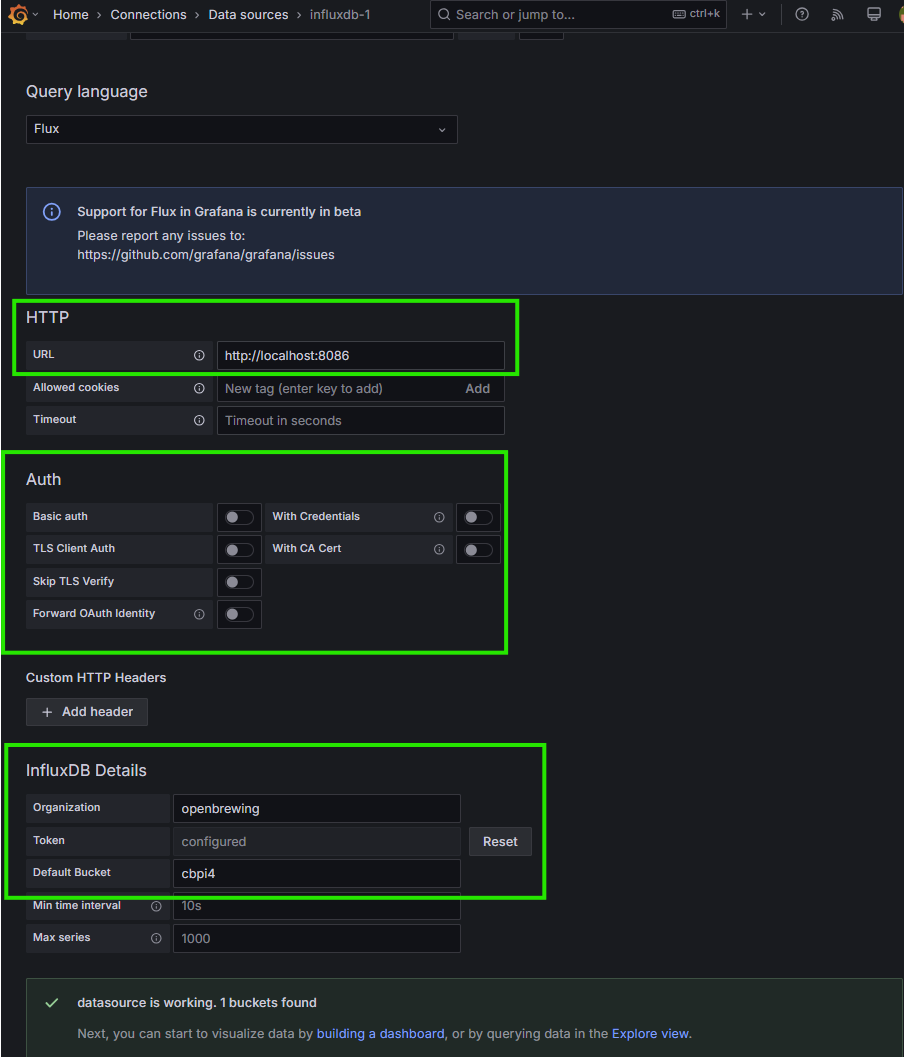
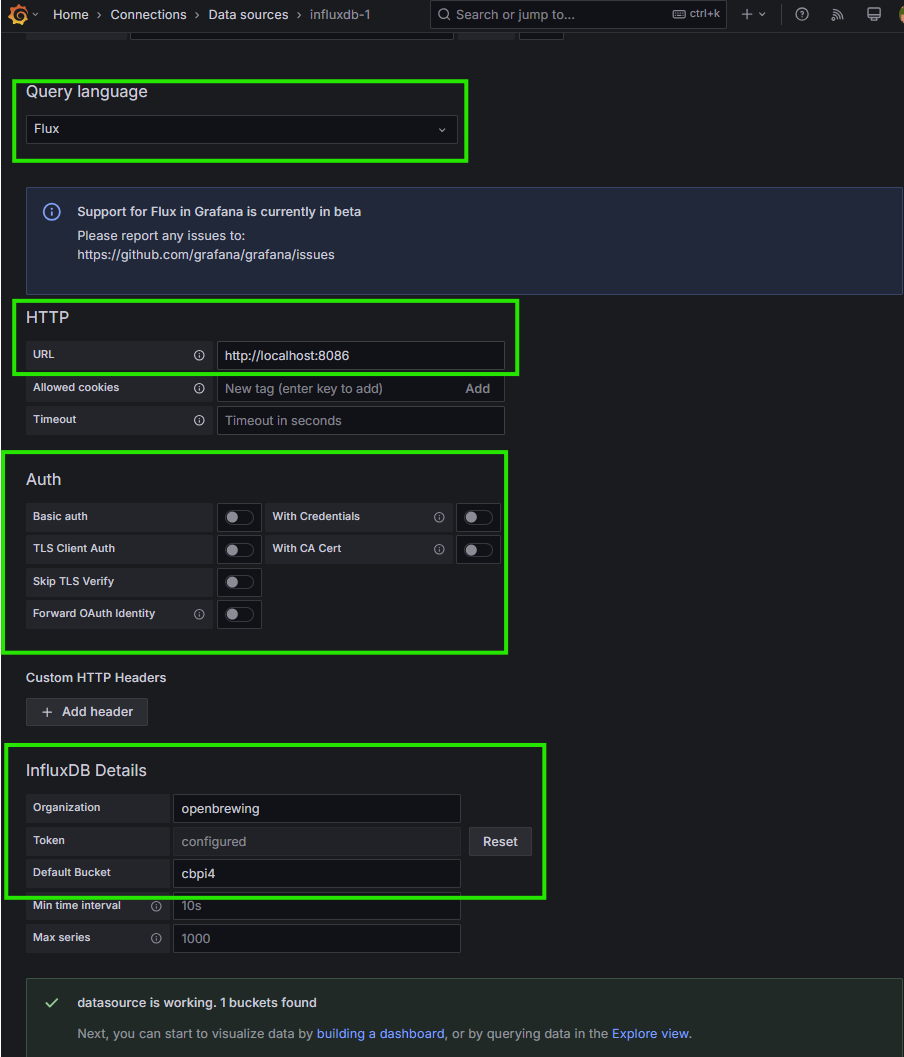
update on influxdb

Changed region(s): [[0.0, 0.0624, 0.5265, 0.1561]]

diff --git a/master/examples/example-influxdb2.md b/master/examples/example-influxdb2.md
@@ -1,5 +1,7 @@
 # Example for InfluxDB V2 / Grafana installation and configuration on th pi
 
+## Installation of the InfluxDB v2 on the Pi
+
 The example installation for influxdb2 is based on the instructions you can find on the [influxdb webpage](https://docs.influxdata.com/influxdb/v2/install/#install-influxdb-as-a-service-with-systemd)
 
 Follow the instructions for Ubuntu / Debian. First you need to add the source information for the installation packages to your system. Run the following commands from your home directory where you have write access.
@@ -39,6 +41,8 @@ http://IPADDRESS_OF_PI:8086
 You should see this initial screen:
 
 ![InfluxDB2 initial screen](../../.gitbook/assets/cbpi4_influxdb_setup.png)
+
+## Configuration of InfluxDB and CraftbeerPi4
 
 Click on the get started button amd enter a name for the admin and a password. Enter an organization name and a name for an initial bucket
 
@@ -90,16 +94,112 @@ Then to the influxdb interface and open the data explorer. Select under `From`yo
 
 
 
-Grafana:
+## Installation of Grafana on the Pi:
 
-Install grafana server section from here:
-https://grafana.com/tutorials/install-grafana-on-raspberry-pi/
+Please follow the installation instructions for Grafana an scroll down to `Install Grafana` on this [page](https://grafana.com/tutorials/install-grafana-on-raspberry-pi/).
+
+Open a terminal and add the APT key used to authenticate packages. Ideally you are in your home directory as youi must have wrtie capabilities. 
+
+```
+sudo mkdir -p /etc/apt/keyrings/
+wget -q -O - https://apt.grafana.com/gpg.key | gpg --dearmor | sudo tee /etc/apt/keyrings/grafana.gpg > /dev/null
+```
+
+Add the Grafana APT repository to the sources
+```
+echo "deb [signed-by=/etc/apt/keyrings/grafana.gpg] https://apt.grafana.com stable main" | sudo tee /etc/apt/sources.list.d/grafana.list
+```
+
+Install grafana:
+```
+sudo apt update
+sudo apt install -y grafana
+```
+
+Enable and start the grafana server
+```
+sudo systemctl enable grafana-server
+sudo systemctl start grafana-server
+```
+
+Open your browser and access influxdb from your browser (replace IPADDRESS_OF_PI with the ip address of your pi):
+
+```
+http://IPADDRESS_OF_PI:3000
+```
+
+Log in to Grafana with the default username `admin`, and the default password `admin`.
+
+Change the password for the admin user when asked.
+
+Navivagte to Connections and add a new InfluxDB based data connection:
+![Grafana Connection ](../../.gitbook/assets/cbpi4_grafana_connections.png)
+
+Then add a new data source:
+![Grafana add new data source](../../.gitbook/assets/cbpi4_grafana_influx.png)
 
 
-Flux query builder
-https://grafana.com/docs/grafana/latest/datasources/influxdb/query-editor/#flux-query-editor
+- Select Flux as Query language
+- Enter `http://localhost:8086` in the URL field.
+- Disable Basic Authentication and everything else in Atuhentication
+- Enter your organization in the organization Field
+- Enter the bucket you created for your CraftbeerPi4 data in the defeult bucket field
+- Enter the API token for the bucket in the token field
+- Test Connection and you should see a message at the bottom, the Grafana is able to connect to the data source
+
+![Grafana Connection to data source](../../.gitbook/assets/cbpi4_grafana_data_source.png)
+
+Navigate to Dashboards amd add a new dasboard
+
+![Grafana add new dashboard](../../.gitbook/assets/cbpi4_grafana_create_dashboard.png)
+
+Then add a new visualization to the dashboard
+
+![Grafana add new visualization](../../.gitbook/assets/cbpi4_grafana_add_visualization.png)
+
+Now select your datasource for the visualization that you have created earlier.
+
+![Grafana add source to visualization](../../.gitbook/assets/cbpi4_grafana_visualization_source.png)
+
+To display the data for your Sensor in the visualization, you need to add a data query in the corresponding field. Data queries must be written in [flux](https://grafana.com/docs/grafana/latest/datasources/influxdb/query-editor/#flux-query-editor). The correct data source must be selected.
+
+![Grafana define query for visualization](../../.gitbook/assets/cbpi4_grafana_dashboard_query.png)
+
+{% hint style="info" %}
+If you are not used to the flux queries, you can go to the influxdb data explorer and select your sensor as you did above and open the script editor.
+![InfluxDB data](../../.gitbook/assets/cbpi4_grafana_influx_script_editor.png)
+
+Now the corresponding flux query will be shown on the influxdb interface. Copy this query. and paste it into the query form for the grafana visualizaiton.
+
+![InfluxDB query](../../.gitbook/assets/cbpi4_grafana_influx_script.png)
+{% endhint %}
+
+Once you have entered the query you can click on the refresh button to see, if the query is working. You can add a name to your visualization for the sensor and save the dashboard.
+
+![Grafana define query for visualization](../../.gitbook/assets/cbpi4_grafana_query.png)
+
+Enter a name for your dashboard and click save.
+
+![Grafana save dashboard](../../.gitbook/assets/cbpi4_grafana_save_dashboard.png)
+
+Now you should see the dashboard overview and cann acces your dashboard with a click on `CraftbeerPi4`
+
+![Grafana dashboard overview](../../.gitbook/assets/cbpi4_grafana_dashboard_overview.png)
+
+The dashboard can be modified (e.g. adding another visualization) by clicking on the edit button.
+![Grafana dashboard](../../.gitbook/assets/cbpi4_grafana_dashboard_craftbeerpi4.png)
+
+If you want to edit the Sensor visualization, click at the top right and click on Edit in the context menu. Then you can edit the query, or the style.
+![Grafana edit visualization](../../.gitbook/assets/cbpi4_grafana_edit_sensor.png)
+
+If you want to view the visualizastion at a lrger scale, click at the top right and click on view in the contrext menu.
+![Grafana view visualization](../../.gitbook/assets/cbpi4_grafana_view_dashboard.png)
+
+This will show you also the link to the visualization and the information you need to add a diagram to a CraftbeerPi 4 dashboard.
+![Grafana dashboard link](../../.gitbook/assets/cbpi4_grafana_dashboard_link.png)
 
 
+### Configuration of the grafana.ini file to acces the diagrams fromn CraftbeerPi 4
 To access the diagrams from the cbpi server, you need to adapt a few settings in your grafana configuration.
 
 1. You need to allow [embedding](https://grafana.com/docs/grafana/latest/administration/configuration/#allow_embedding) of your charts.
@@ -150,7 +250,10 @@ hide_version = true
 device_limit =
 ```
 
+## Adding a Grafana Chart to a CraftbeerPi 4 dashboard
+
 As shown in the [dashboard](../craftbeerpi-4-server/dashboard.md#item-menu) section, you can also add a grafana chart to the dashboard.
+
 
 ![Example of Grafana Chart in Dashboard](../../.gitbook/assets/cbpi4-grafana-chart.png)
 
